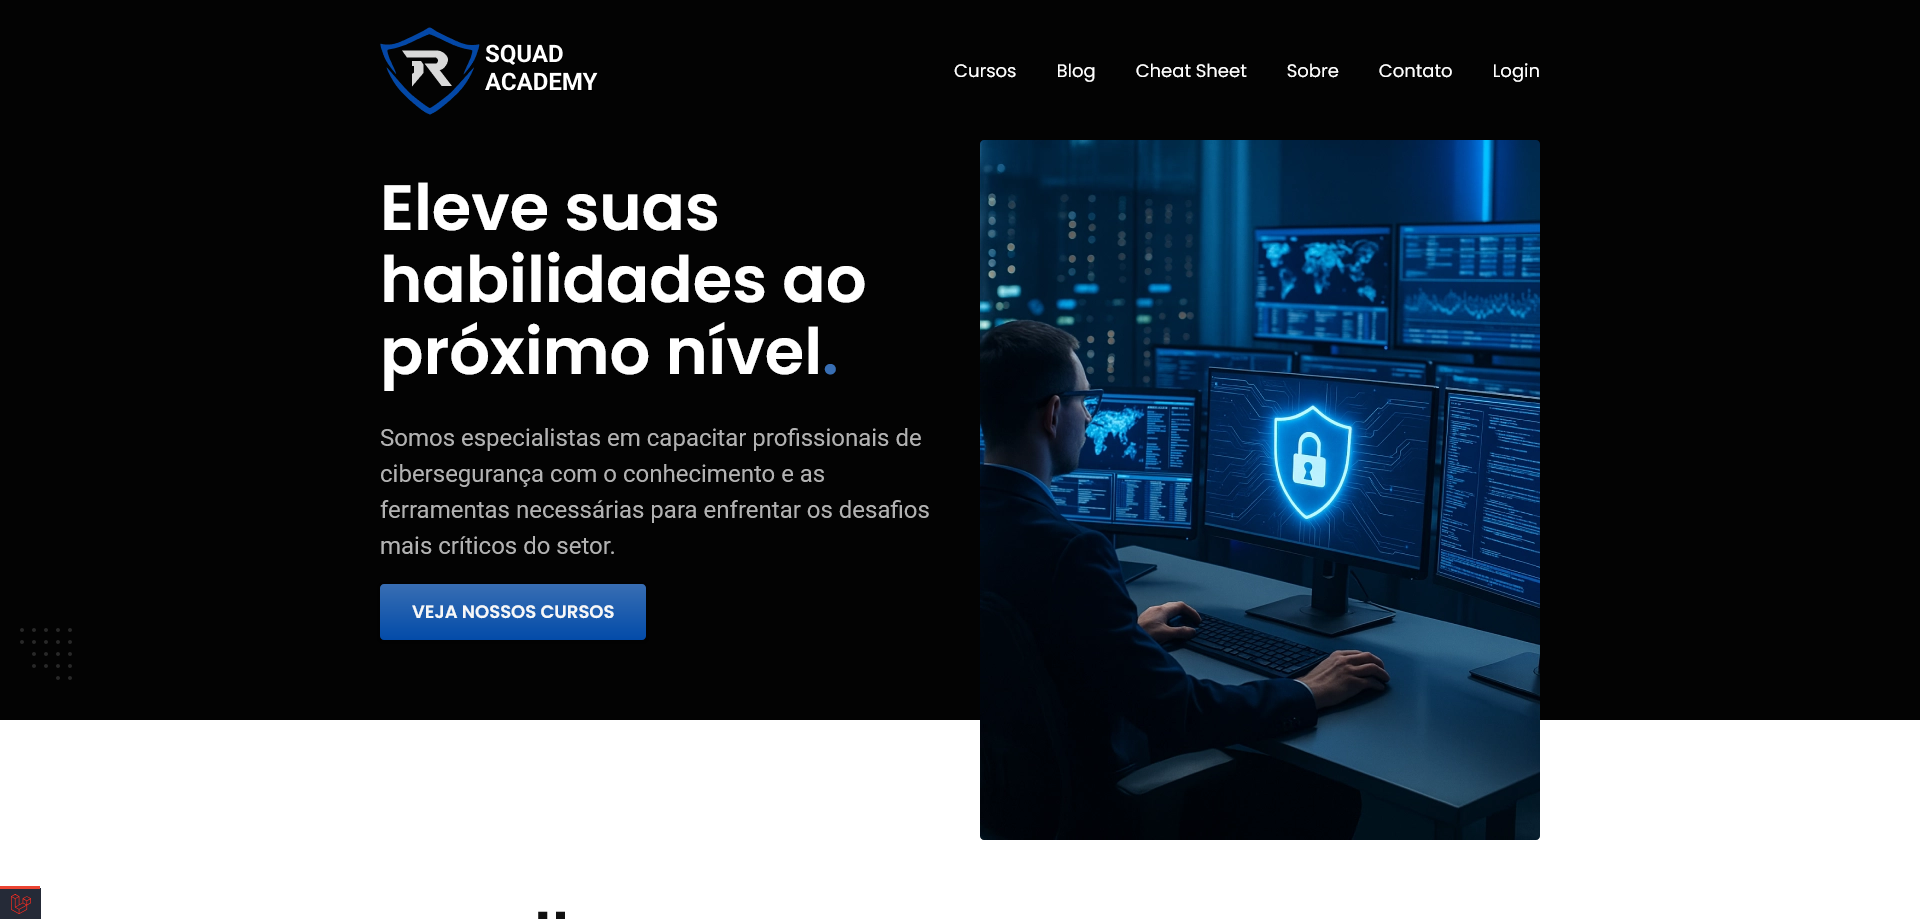
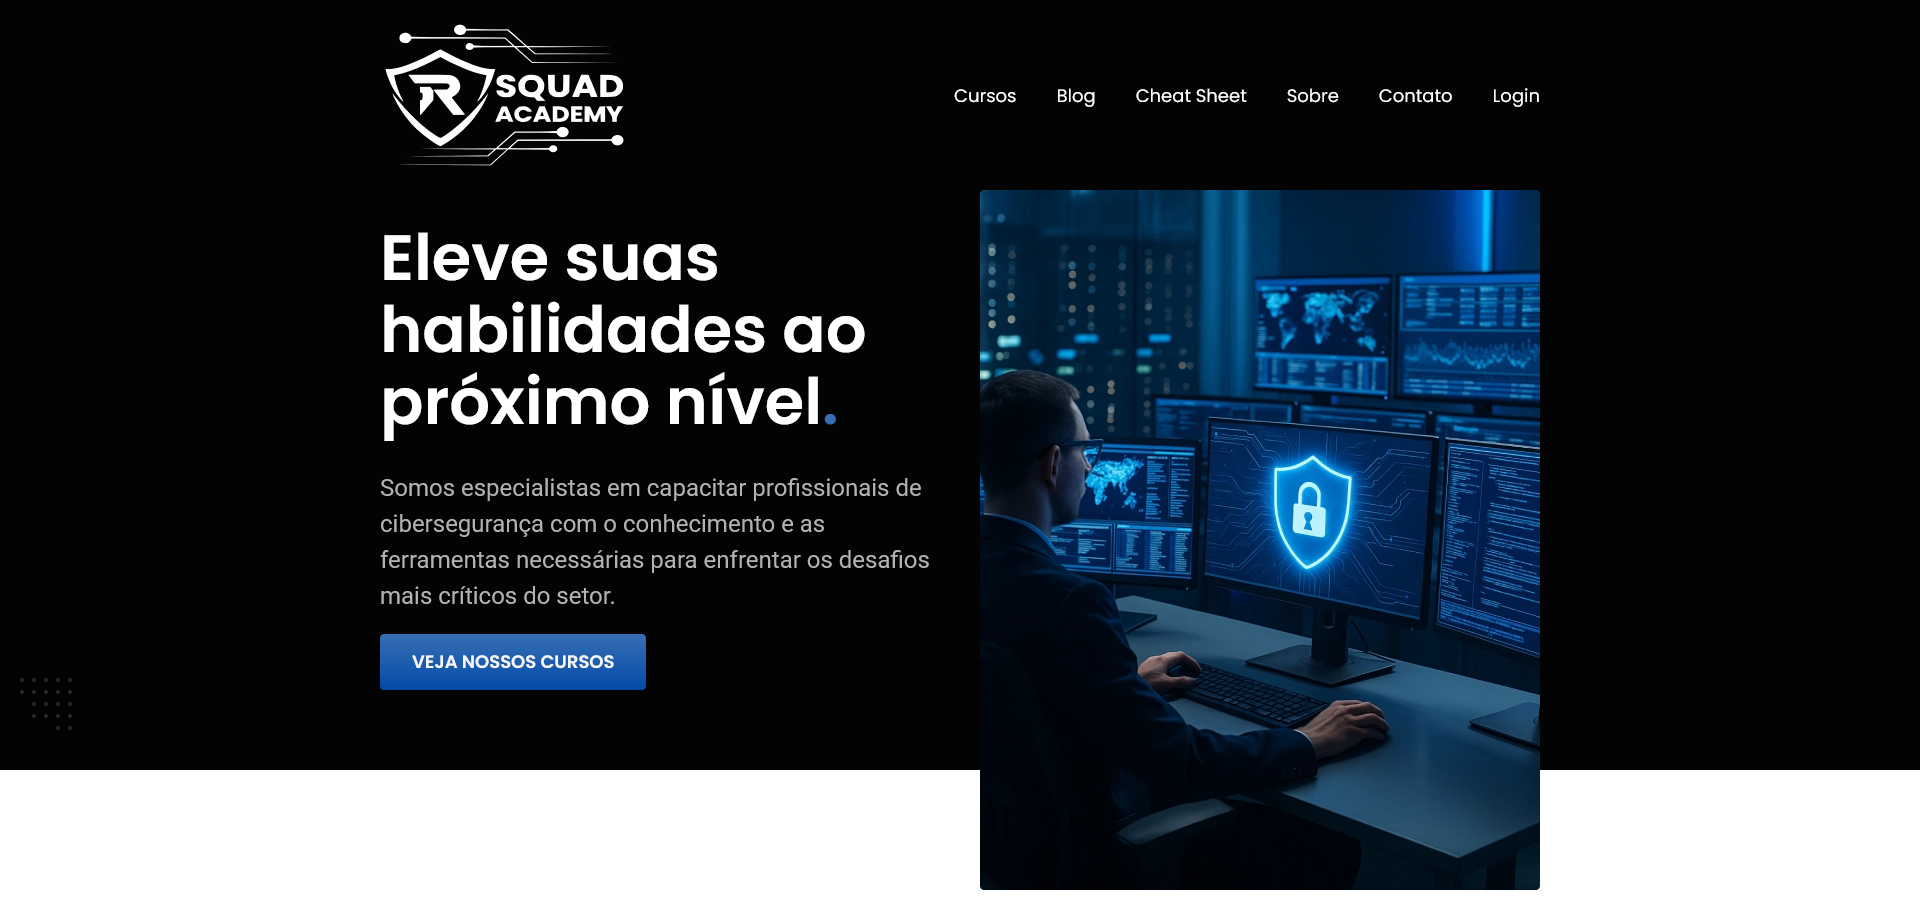
mod: update README

diff --git a/README.md b/README.md
@@ -1,7 +1,7 @@
 # RSquad Academy
 
 <p align="center">
-<img src="screenshots/rsquadacademy.jpg" alt="RSquad Academy"/>
+<img src="screenshots/logo.png" alt="RSquad Academy"/>
 </p>
 
 ## Project with Laravel 12 and Docker with Laravel Pint, PEST, Debugar, AdminLTE3, DataTables server side and Spatie ACL
